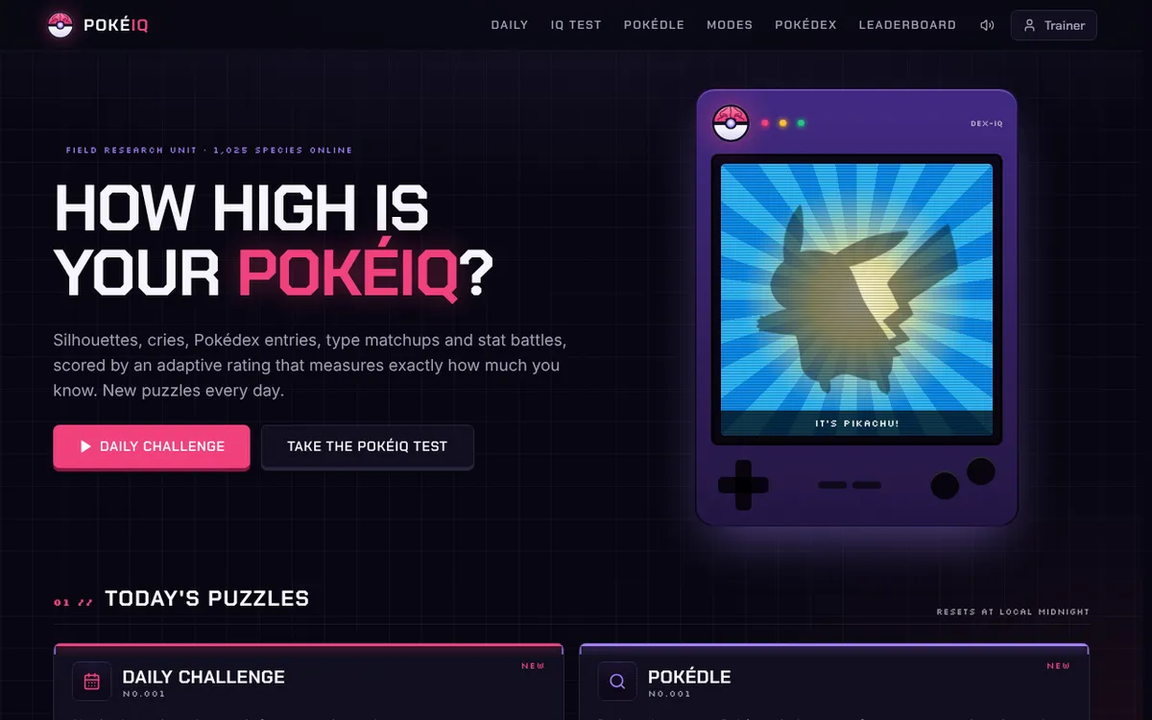
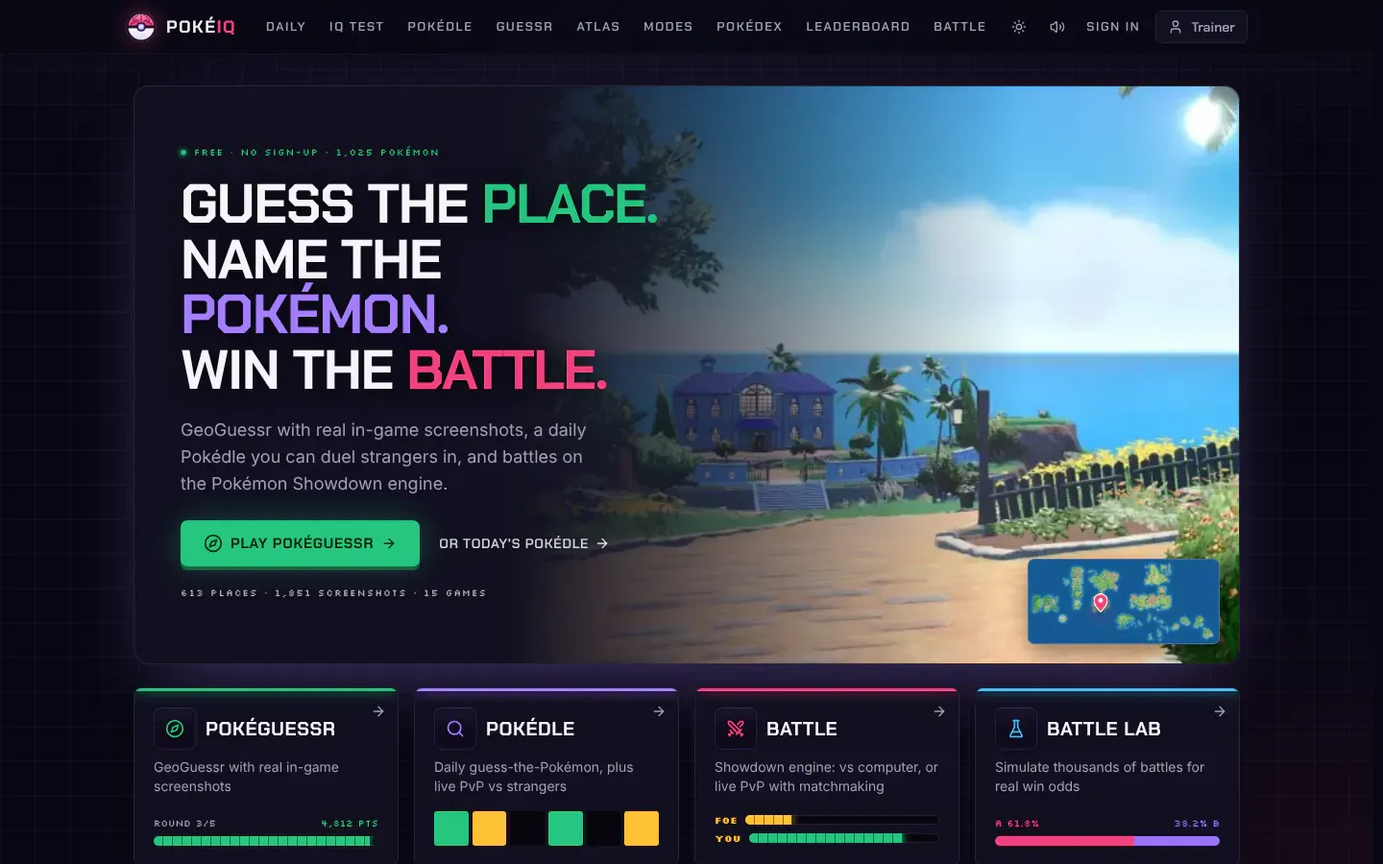
README: rewritten as a project write-up, with fresh screenshots
A pitch and the live link, a tour of the four headline games, the
engineering behind them (duels without a game server, matchmaking from a
single-row queue, sealed round plans, fair sampling, the screenshot
pipeline, Showdown parity, the jsonb key-order bug, the Battle Lab, the
Pokédle scheduler, moderation), an architecture diagram, setup, tests and
credits.

New desktop screenshots of the home page, PokéGuessr, Pokédle, a battle,
the Battle Lab, a quiz and a Pokédex page; the old set is gone.

diff --git a/README.md b/README.md
@@ -1,236 +1,141 @@
 # PokéIQ
 
-**The ultimate Pokémon knowledge test.** Daily challenges, a Pokédle, Who's That Pokémon silhouettes, cry quizzes, Pokédex entries, type matchups and stat battles, all scored with an adaptive rating that turns your answers into a **PokéIQ**.
+**GeoGuessr, Wordle and Pokémon Showdown in one free Pokémon site.** Guess where an in-game screenshot was taken, solve the daily Pokédle or duel a stranger at it, battle on the official Showdown engine, and simulate thousands of battles to see who really wins.
 
-Every question is generated on demand from a snapshot of all 1,025 Pokémon. No question is hand-written, answers are graded on the server, and every result doubles as a challenge link your friends can replay.
-
-<p align="center">
-  <img src="public/logo.svg" alt="PokéIQ logo" width="96">
-</p>
+**Play it: [pokeiq.vercel.app](https://pokeiq.vercel.app)**. No sign-up, works on desktop and mobile.
 
 <p align="center">
   <img src="docs/screenshots/home.webp" alt="PokéIQ home page" width="900">
 </p>
 
-| Who's That Pokémon? | Adaptive PokéIQ Test |
-|---|---|
-| <img src="docs/screenshots/whos-that.webp" alt="Silhouette quiz"> | <img src="docs/screenshots/iq-test.webp" alt="PokéIQ Test results with convergence chart"> |
-| **Pokédex** | **Pokémon entry** |
-| <img src="docs/screenshots/pokedex.webp" alt="Pokédex explorer"> | <img src="docs/screenshots/pokedex-entry.webp" alt="Charizard entry with forms and shiny toggle"> |
-| **Stats & radar** | **Silhouette lookalikes (DINOv2)** |
-| <img src="docs/screenshots/pokedex-stats.webp" alt="Stat bars and radar chart"> | <img src="docs/screenshots/lookalikes.webp" alt="Easily confused silhouettes"> |
-| **Pokédle** | **Mobile** |
-| <img src="docs/screenshots/pokedle.webp" alt="Pokédle daily deduction game"> | <img src="docs/screenshots/mobile.webp" alt="Mobile Pokédex entry" width="260"> |
-
-## Features
+## What you can play
 
 | | |
 |---|---|
-| **PokéIQ Test** | A computerized adaptive test (the technique behind the GRE and GMAT): 20 questions, each picked for maximum Fisher information at your current estimate, scored as a PokéIQ with a 90% confidence range and a convergence chart |
-| **Daily Challenge** | 10 mixed questions, identical for every player that day (date-seeded), with a spoiler-free 🟩🟥 share grid and a daily leaderboard |
-| **Pokédle** | Daily Squirdle-style deduction: 8 guesses, with feedback on generation, types, height, weight, color and evolution stage. Unlocks hints (silhouette, then category). Beside the board, a reference Pokédex of every guessable Pokémon to work it out by elimination: filter by generation, type, colour, stage, height and weight, sort any column, click a row to fill in the guess (the filters are yours to set; it never reads your clues). Unlimited practice mode |
-| **PokéGuessr** | GeoGuessr for Pokémon: dropped somewhere in the Pokémon world, you get an in-game view and drop a pin on the world atlas (the whole world, or one region's part of it), scoring up to 5,000 points a round on GeoGuessr's curve. Every place shows up in every game it's in, from Red / Blue to the latest remakes, picked fairly across the world and steered away from places you've just seen. Daily game, streaks, challenge links and leaderboards per map |
-| **World atlas** | Every mainline region on one zoomable map, laid out like the real places they're based on, with every town, route and landmark labelled from the games' own maps |
-| **PokéGuessr Duels** | Head-to-head PvP, GeoGuessr Duels style: pick a map, send a friend the link, both press Ready and you get the same places. Once one of you guesses, the other has 15 seconds. 6,000 HP each: every round the lower score loses the difference, times a multiplier that climbs from ×1.5 (round 4) to ×3. First to 0 HP loses, more HP wins after 10 rounds, leaving forfeits, and a rematch is one click |
-| **Pokédle Duels** | Head-to-head Pokédle through a share link: three rounds, the same mystery Pokémon for both of you (never the day's solo answer, from all generations or the ones the creator picks). A solve scores 1,000 on the first guess down to 300 on the last, plus up to 150 for speed; hints are opt-in and cost points (category −150, silhouette −300). You see your opponent's colours and hint badges as they play, never their Pokémon. The most points wins, then fewer guesses, then less time |
-| **Matchmaking** | "Find an opponent" on the PokéGuessr and Pokédle duel cards pairs you with anyone searching for the same game and map (Pokédle matches play every generation), no link needed. The duel starts on its own after a short countdown |
-| **Quiz Duels** | Any quiz mode and difficulty, head to head through a share link: the same 10 questions for both of you (built on the server from one seed), 15 seconds each. You see when your opponent locks in, never what they picked; the reveal shows the right answer and both picks. A points race: 100 for a right answer plus up to 50 for speed, the most points after 10 questions wins. Start one from any quiz's setup screen or the game modes page |
-| **Who's That Pokémon?** | Silhouettes rendered on the server, with a "zoomed-in" hard mode that always frames recognisable outline |
-| **Cry Quiz** | Identify Pokémon by their in-game cry |
-| **Dex Detective** | Censored Pokédex entries, categories ("the Seed Pokémon") and abilities |
-| **Type Master** | Typings, damage multipliers, 4× weaknesses and immunities, computed from the 18×18 type matrix |
-| **Higher or Lower** | Two Pokémon, one stat (Speed, BST, weight…) |
-| **Formats** | Classic (10 × 15s), Survival (3 lives, endless) and Blitz (60s), with per-generation filters ("Gen 1 purist") |
-| **Challenge links** | `/c/<token>` replays the exact same questions and shows a head-to-head result; dynamic Open Graph cards for Discord, X and iMessage |
-| **Progression** | XP, levels, daily streaks, 19 badges and a trainer card. Local-first with no signup needed; optional accounts sync it across devices |
-| **Pokédex** | Searchable explorer (type and generation filters, sort by any stat, infinite scroll) and a page for every species: animated / 3D / shiny art with tilt, cries, Mega / regional / Gigantamax forms, stat bars with radar chart, Lv 50/100 ranges and percentiles, full type matchups, branching evolution trees with methods, complete learnsets (level-up / TM / egg / tutor), every Pokédex entry by game, breeding, training, regional dex numbers and names in 7 languages |
-| **Lookalikes** | A DINOv2 vision model embeds every silhouette offline. Its nearest neighbours drive hard-mode Who's That distractors and each Pokédex page's "easily confused with" panel |
-| **Coach** | Per-generation, per-type and per-mode accuracy with empirical-Bayes smoothing. It surfaces your focus areas and strengths and links each one to the right study tool |
-| **Study mode** | Flip-and-swipe flashcards (silhouette, Pokédex entry or typing) with missed cards re-queued and per-generation mastery tracking; quiz answers link straight to the Pokédex |
-| **Team Builder** | Competitive teams for Gen 9 OU, Ubers, UU, Doubles OU, VGC 2025 Reg I, National Dex, Gen 4 OU and Gen 3 OU. Six slots with species search, moves limited to each format's learnsets (type, category, power, accuracy, PP), abilities, items, natures, Tera types, EV sliders, IVs and live stats. Every edit is checked by Pokémon Showdown's own team validator, with problems shown on the slot they belong to. Showdown import / export round-trips exactly; random legal teams; saved on the device |
-| **Damage Calculator** | The Smogon damage calculator for Gens 3–9, both ways: every move's damage range in % and HP, KO chance and the full Showdown description. Boosts, status, Tera, current HP, weather, terrain, screens, hazards, doubles spread, crits, Helping Hand and the rest; load either side from a saved team |
-| **SEO** | 15 quiz landing pages plus 1,025 static Pokémon pages, with a sitemap, JSON-LD and canonical URLs |
-| **Sound** | Synthesized Web Audio effects (no audio files) for answers, streaks and results, with a mute toggle (`M`) |
-| **PWA** | Installable on iOS and Android, with safe-area insets and app shortcuts |
+| **PokéGuessr.** GeoGuessr for the Pokémon world: 1,851 real in-game screenshots of 613 places from 15 games, Kanto to Paldea. Drop a pin on the world map and score up to 5,000 a round. Daily game, streak mode, challenge links and live 1v1 duels with HP, against a friend or a stranger. | <img src="docs/screenshots/guessr.webp" alt="A PokéGuessr round: an in-game view and the world map"> |
+| **Pokédle.** A daily guess-the-Pokémon with clues for generation, types, height, weight, colour and evolution stage, a filterable Pokédex beside the board, community stats once you finish, and three-round live duels against a friend or a stranger. | <img src="docs/screenshots/pokedle.webp" alt="Pokédle board after three guesses"> |
+| **Battles.** Real battles on the official Pokémon Showdown simulator: Random Battle, Random Doubles, OU, Ubers, UU and Doubles OU, against a computer opponent (three levels) or live against another player found by matchmaking or an invite link. Team builder with Showdown's own legality check, and the Smogon damage calculator. | <img src="docs/screenshots/battle.webp" alt="A battle against the computer"> |
+| **Battle Lab.** Set up any two teams, Gen 1 to 9, and run the battle up to 50,000 times in your browser. Win rates with 95% confidence intervals, battle length, who scores the KOs, and replays of sample battles. | <img src="docs/screenshots/battle-lab.webp" alt="Battle Lab results: win rates with confidence intervals"> |
+
+Also: adaptive quizzes on all 1,025 Pokémon (silhouettes, cries, Pokédex entries, type matchups, higher-or-lower) scored by an item-response rating, a daily challenge, a full Pokédex with a page per species, flashcards, a zoomable world atlas, leaderboards and optional trainer accounts.
+
+<p align="center">
+  <img src="docs/screenshots/guessr-reveal.webp" alt="A PokéGuessr reveal: the guess, the answer and the score" width="290">
+  <img src="docs/screenshots/whos-that.webp" alt="Who's That Pokémon? silhouette quiz" width="290">
+  <img src="docs/screenshots/pokedex-entry.webp" alt="Garchomp's Pokédex page" width="290">
+</p>
+
+## Engineering highlights
+
+**Server-authoritative live duels without a game server.** PokéGuessr, Pokédle and quiz duels and live battles all run on Vercel functions and one Postgres row per game. Nothing runs on a timer: every poll or action catches the duel up on the steps that are due (a round closing, the next one starting, a silent player forfeiting), each dated by the rules rather than by when the request arrived, so both players always see the same game. Every write is a compare-and-swap on the row's version, so two players acting in the same millisecond can't overwrite each other, and each player holds an HMAC-signed seat token, so nobody can act for anyone else. Views are cut per player: an answer and the opponent's pin leave the server only in the reveal. (`src/lib/server/duel-core.ts`, `duel-store.ts`)
+
+**Matchmaking with strangers from a single-row queue.** Each queue (`geo:world`, `pokedle:all`, `battle:gen9ou` …) is one row holding at most one waiting player. A search either pairs with a waiting player who is still polling, opening the game with both seated, or becomes the one waiting. Every change to the row is a compare-and-swap, so two searches can never wait on each other and a waiting player is never paired twice; a search not heard from in 8 seconds is passed over. Battle formats that need your own team check it against the format's rules before you join the queue. (`src/lib/server/match-queue.ts`)
+
+**Stateless games with sealed round plans.** A PokéGuessr game is a token, not a database row: its five rounds are planned up front, then encrypted (AES-256-GCM) into the signed token, so the server can grade any guess without storing anything and the player can't read the places out of it. Screenshot URLs carry random ids, and the id-to-place mapping never leaves the server. Quiz questions are a pure function of an HMAC'd seed, and silhouettes and cries are served behind encrypted media tokens, so the open-source code can't be used to precompute answers. (`src/lib/server/geo.ts`, `crypto.ts`, `session.ts`)
+
+**Fair sampling with recency steering.** Rounds are drawn by area, not by screenshot: a town and every building in it count as one draw, so a place with 20 screenshots isn't 20 times as likely as a route with one, and a world game takes each round from a different region. For free play the server tries 64 seeds and keeps the one whose rounds overlap least with the player's recent places, weighted toward the latest. (`planRounds`, `staleness` in `src/lib/server/geo.ts`)
+
+**A screenshot pipeline that keeps pixel art crisp.** `scripts/ingest-world.ts` collects views from Bulbapedia, the Bulbagarden Archives and three other Pokémon wikis, keeps only screen-shaped captures, drops near-copies by image hash, and denylists shots that name the place or show the wrong one after a review of every contact sheet. Sprite-game shots are detected at their true pixel scale, reduced to native resolution with nearest-neighbour, then scaled back up by a whole number and saved as lossless WebP, so they stay sharp at any size; 3D captures are capped at 1,600 px. (`scripts/geo/bulbapedia.ts`)
+
+**Battles on the official Showdown engine, with a parity harness.** Live and computer battles run the `pokemon-showdown` package on the server; the Battle Lab runs `@pkmn/sim`, Showdown's simulator packaged for the browser. `npm run verify:showdown` (`scripts/showdown-parity.ts`) plays 2,000 battles across 12 scenarios (random battles for every generation, Random Doubles, a fixed Gen 4 matchup and Gen 9 OU) on both engines with the same seeds, teams and choices, and compares every request and the full omniscient log line by line, plus both team validators on edge-of-legality sets. Every difference is classified rather than just counted: on the latest run (1.29 million log lines in about three minutes), the fixed-team scenarios matched line for line in all 332 battles, and every divergence in the random formats traced to a known cause, either newer random-battle set lists and format text in the official package or one of a short, named list of mechanics fixes (Gen 3-4 Encore timing, Gen 4 Truant, Pursuit on a switch, recoil message details). That tells you exactly where the Lab can differ from the live game, and why.
+
+**The jsonb key-order bug.** In live battles, one player's move kept voiding the other's: their choice came back "out of date" and their turn clock restarted. Postgres `jsonb` hands objects back with their keys reordered, so the stored copy of a player's pending request never string-matched the simulator's fresh one, and every write looked like a new request. The fix compares by content through a canonical (key-sorted) JSON, and the in-memory test store now reorders keys the way `jsonb` does, so the tests see what production sees. As a bonus, duels stopped writing to the database on polls where nothing changed. (`src/lib/server/canonical-json.ts`)
+
+**Battle Lab: Monte Carlo in Web Workers.** Battles are split across a pool of Web Workers sized to the device's cores, each playing seeded battles with scripted decision policies. Every battle's randomness comes from the run's seed, so a result link replays exactly. Win rates are reported with Wilson score intervals, which stay honest near 0% and 100% where the normal approximation breaks down. (`src/lib/battle/lab/`)
+
+**Pokédle's daily scheduler.** The answer for each date is dealt from a curated pool like a deck: a keyed shuffle (HMAC with the server secret, so the public code can't predict it) where no Pokémon repeats until the whole pool has been used, about 800 days. Within a cycle, the weekday sets the difficulty tier, generations are spread evenly, consecutive days avoid the same generation and primary type, and an evolution family sits out for several days after one of it was the answer. Past days keep their answers for good, so the archive replays them. Community stats (solve rate, guess distribution, most popular openers) are served from a 30-second CDN cache and shown only after you finish. (`src/lib/server/pokedle-schedule.ts`, `src/app/api/pokedle/stats`)
+
+**Moderation and abuse limits.** A name filter folds accents, look-alike letters from other scripts, leetspeak and repeated letters before matching, while letting every Pokémon name and words like "Scunthorpe" through; it runs in forms and again on the server for every name another player can see. Grading, duel, matchmaking, leaderboard and auth endpoints are behind token-bucket rate limits, leaderboards accept only server-signed result tokens, and a "report a problem" form and the browser error reporter write to a `reports` table. (`src/lib/name-filter.ts`, `src/lib/server/rate-limit.ts`)
+
+**Tested end to end.** 344 Vitest tests across 33 files cover the RNG, every quiz engine at every difficulty, tokens and grading, duels and matchmaking under concurrent writes, the battle service and the Pokédle schedule. A Playwright smoke test (`scripts/e2e-smoke.mjs`) plays every mode in a real browser, including two-browser PokéGuessr, Pokédle and quiz duels and a live battle, checks that no hidden battle data reaches the other player, and fails on any console error. CI runs lint, type check, tests, build and the smoke test on every push.
 
 ## Architecture
 
 ```mermaid
 flowchart LR
-  subgraph Build time
-    PA[(PokéAPI GraphQL)] -->|npm run ingest| DEX[src/data/pokedex.json\n1,025 species]
-    PA -->|npm run ingest| DET[pokedex-details.json + moves.json\nforms · evolutions · learnsets]
-    DET --> PAGES[1,025 static Pokédex pages]
+  subgraph Build["Build time (scripts/)"]
+    POKEAPI[("PokéAPI")] -->|npm run ingest| DEX["pokedex.json: 1,025 species"]
+    WIKIS[("Bulbapedia and other wikis")] -->|npm run ingest:world| GEO["geo.json: places and areas"]
+    WIKIS -->|re-encoded under random ids| STORAGE[("Supabase Storage: screenshots")]
   end
-  subgraph Server
-    DEX --> ENG[Question engines\npure fn of seeded RNG]
-    ENG --> GATE[Zod validation gate]
-    GATE --> SES[Session layer\nHMAC-signed state tokens]
-    SES --> API1[/api/session\n/api/session/answer/]
-    DEX --> MEDIA[/api/media/:token\nsharp silhouettes · AES-GCM tokens/]
-    DEX --> DLE[/api/pokedle/]
-    SES -->|signed result| LB[/api/leaderboard/]
+
+  subgraph Browser
+    UI["Next.js pages (React 19)"]
+    LAB["Battle Lab: @pkmn/sim in Web Workers"]
   end
-  subgraph Optional: Supabase
-    LB --> RUNS[(runs)]
-    API1 --> CLAIMS[(token_claims\nreplay guard)]
-    API1 --> ATT[(question_attempts)] --> CAL[[item_calibration view]]
-    CAL --> ENG
+
+  subgraph Vercel["Vercel functions"]
+    API["API routes: sessions, grading, duels, matchmaking"]
+    SIM["Battle service: official pokemon-showdown"]
+    OG["Link-preview cards (next/og)"]
   end
-  Browser <--> API1 & MEDIA & DLE & LB
+
+  subgraph Supabase["Supabase Postgres"]
+    DUELS[("duels, geo_duels, battles: one row per game, version CAS")]
+    QUEUE[("duel_queue: one row per queue")]
+    DATA[("runs, accounts, dle_results, reports")]
+  end
+
+  DEX --> API
+  GEO --> API
+  UI <-->|polling, signed seat tokens| API
+  UI --> LAB
+  API --> SIM
+  API <--> DUELS
+  API <--> QUEUE
+  API <--> DATA
+  UI -->|screenshot ids only| STORAGE
 ```
 
-### Key design decisions
+## Tech stack
 
-- **Own the data.** GraphQL requests at build time produce committed snapshots: a lean 1 MB quiz dataset, and a separate 3 MB study dataset (learnsets, forms, evolution methods) that only the statically generated Pokédex pages read, so the quiz runtime never loads it. Client components import only `lib/pokemon/constants.ts`, which keeps both datasets out of browser bundles. At runtime, generating a question is an in-memory function that takes microseconds, makes no third-party calls, and can't be rate-limited or taken down by PokéAPI.
-- **Questions are a pure function of `(seed, options)`.** The server never stores a question. It re-derives question *N* of a session whenever it grades one, which makes Daily Challenges and challenge links free: same seed, same quiz.
-- **Seeds are HMAC'd.** The generator is open source and the public seed is visible in tokens, but the RNG is seeded with `HMAC(secret, seed)`. Without the server secret, nobody can precompute a quiz's answers from this repo.
-- **Server-authoritative scoring.**
-  - The browser never receives an answer before committing to a choice.
-  - Session state lives in HMAC-signed tokens, and timing comes from server clocks.
-  - Each `(session, question)` can be graded only once. A replay guard backed by a Postgres unique key stops replaying an old token after seeing the solution.
-  - The leaderboard accepts only a server-signed result token. There's no score field to forge, and the anon key is read-only under RLS.
-- **No answer leaks through media.** Silhouette and cry URLs are AES-GCM encrypted tokens, so there's no Pokédex number in the URL. Silhouettes are rendered with `sharp` on the server, so the full-colour art reaches the browser only after grading.
-- **Self-verifying output.** Every generated question passes a Zod gate (answer in the options, no duplicates). Builders refuse ambiguous questions such as stat ties or shared categories instead of shipping them.
+- **App:** Next.js 15 (App Router, React Server Components), React 19, TypeScript (strict), Tailwind CSS
+- **Data:** Supabase (Postgres with row-level security, Storage), with an in-memory fallback so the game runs with no configuration
+- **Battles:** `pokemon-showdown` (server), `@pkmn/sim`, `@pkmn/client` and `@pkmn/view` (browser), `@smogon/calc`
+- **Images:** `sharp` for silhouettes and screenshot encoding, `next/og` for share cards
+- **Validation and testing:** Zod on API inputs, Vitest, Playwright, GitHub Actions
+- **Hosting:** Vercel, with Vercel Analytics
 
-### The PokéIQ rating
-
-Players and questions share one Elo-style scale. The probability of a correct answer follows an item-response-theory curve with a guessing floor (3PL with `c = 1/options`):
-
-```
-P(correct) = g + (1 − g) / (1 + 10^((item − player) / 400))
-```
-
-A run's PokéIQ is the MAP estimate of the player's rating given the items answered: bisection on the likelihood gradient with a Gaussian prior. It's then mapped to an IQ-style scale (mean 100, SD 15). Ten easy questions right is worth less than ten hard ones.
-
-Items start with heuristic priors (generation, zoom, distractor similarity, stat gap). Once Supabase is connected, every graded answer is logged and the `item_calibration` view inverts the same curve to compute an empirical difficulty per item. The server swaps it in after 30 attempts, so difficulty sharpens as the player base grows.
-
-### Machine learning and psychometrics
-
-| Component | Technique | Where |
-|---|---|---|
-| Ability estimation | 3PL item response model, Bayesian MAP estimate with Gaussian prior, standard error from Fisher information | `src/lib/rating.ts` |
-| Adaptive testing | Max-information item selection with top-3 randomisation, deterministic replay from the signed answer log, memoised per answer prefix | `src/lib/server/session.ts` |
-| Item calibration | Logged attempts feed a Postgres view that inverts the response curve for an empirical difficulty per item | `supabase/migrations`, `src/lib/server/calibration.ts` |
-| Silhouette similarity | DINOv2-small embeddings (Transformers.js / ONNX, offline) of each silhouette plus its mirror, then exact cosine kNN | `scripts/silhouette-lookalikes.ts` |
-| Weak-spot coach | Beta-prior (empirical-Bayes) smoothing of per-skill accuracy | `src/lib/coach.ts` |
-
-**Simulation results.** 175 simulated players span true ratings 700–1900, and their answers are drawn from the same response model. After 20 questions the adaptive test's estimate is off by **88 rating points on average (≈ 6.6 IQ points)**. A fixed 20-question quiz is off by **123 points (≈ 9.2 IQ points)**, so adaptive selection cuts the error by about 28%, with the biggest gains for very strong and very weak players. These numbers assume the item difficulties are correct; real-world accuracy depends on calibration data. Tests in `tests/adaptive.test.ts` check that the adaptive test serves harder questions to stronger players and ranks them above weaker ones.
-
-### Battle
-
-The Battle section runs on Pokémon Showdown's own code: `@pkmn/sim` (MIT) for the rules, `@pkmn/dex` and `@pkmn/data` for the data, `@pkmn/sets` for Showdown's text and packed team formats, `@pkmn/randoms` for random sets and `@smogon/calc` for damage. Their data runs to megabytes, so the browser only fetches it on the team builder and calc pages, through dynamic imports (about 350 KB gzipped, plus 400 KB of learnsets on the first move list); every other page's bundle is unchanged. Legality is decided on the server: `/api/battle/validate` runs the simulator's `TeamValidator` for the team's format and returns problems per set, and `/api/battle/random` deals random-battle sets that pass it. The simulator stays an external Node package (`serverExternalPackages`), since minifying it breaks its state serializer. Saved teams live in `src/lib/battle/teams.ts` (localStorage, like progress); a team's sets are Showdown sets, and `listTeams(format)` and `teamShowdownText(id)` are what battles read. Sprites come from PokéAPI's repo: `scripts/battle-sprites.ts` maps Showdown's form ids to PokéAPI's and records which animated sprites exist.
-
-### PokéGuessr data pipeline
-
-Every PokéGuessr map is the world atlas: the whole world, or one region's part of it. `scripts/geo/world-places.json` holds every place on the atlas (its name, region and area in world-map pixels, traced from each game's own town map) and each region's box. `scripts/ingest-world.ts` finds each place's Bulbapedia page and collects in-game screenshots from its infobox, its gallery and the Bulbagarden Archives (including X/Y's Photo Spots and Ultra Sun / Ultra Moon's Photo Club backdrops), then tops up the 3D games from the place's pages on the Pokémon Wiki (Fandom), Poképédia and PokéWiki (found through PokéAPI's names and Bulbapedia's language links), since Bulbapedia has only guidebook maps for most X/Y, Sun/Moon and Sword/Shield routes. It keeps only real views: a 3D game's file has to be screen-shaped (5:3 on the 3DS, 16:9 or 2:1 on the Switch), which drops guidebook maps, scans and renders; Town Map previews, item-pickup shots (their text boxes) and files naming another place are dropped, near-copies (a route's four seasons, the same view on two wikis) are found by image hash and kept once, and shots that name the place or show the wrong one are denylisted after reviewing contact sheets of every screenshot. Screenshots are re-encoded under random ids and uploaded to Supabase Storage, so image URLs reveal nothing. Buildings and landmarks get their own rounds and share their town's area, stored as a point every 8 px so a guess anywhere in it scores full marks. The id-to-location mapping is server-only, rounds are seeded from the server secret, and every guess is graded on the server: 5,000 · e^(−10 · d / D), with D the map's diagonal.
-
-### PokéGuessr duels
-
-A duel is one row on the server (`geo_duels`, RLS-locked to the service role), and `src/lib/server/duel.ts` applies every rule as a pure function of the duel and the time. Nothing runs on a timer: each poll or action catches the duel up on whatever is due (a round closing 15 s after the first guess or 90 s after it started, the next round starting, a trainer who hasn't been heard from in 30 s forfeiting), dated by the rules rather than by when the request arrived, so both players see the same duel. Writes are a compare-and-swap on the row's version, so two players acting at once never overwrite each other. Each player holds a signed token for their seat, and views are cut per player: a round's answer and the opponent's pin only leave the server in the reveal. Clients poll every second in play. Without Supabase (or with `POKEIQ_LOCAL_ACCOUNTS=1`) duels live in memory, which is right for one server process; production needs Supabase for them.
-
-Pokédle and quiz duels share one table, `duels`, with a `kind` column, and one API (`/api/duel`, `/api/duel/<code>`). `src/lib/server/duel-core.ts` holds what every duel shares (signed seats, the lobby, presence, forfeits, rematches) and each game plugs in its own rules. `src/lib/server/pokedle-duel.ts` keeps the round's secret and both trainers' guesses on the server and sends each trainer their own clues in full, but the opponent's only as colours and hint badges until the round is over. `src/lib/server/quiz-duel.ts` builds each question with the solo quiz's engines from the duel's seed and sends it only once it starts (with media behind the usual encrypted tokens); the answer and both picks go out in the reveal. On the client, `src/components/duel/` has the polling hook and the lobby every duel uses, PokéGuessr's included.
-
-Matchmaking (`src/lib/server/matchmaking.ts`, `POST /api/duel/match`) keeps one row per queue in `duel_queue` (a game and its settings, like `geo:world` or `pokedle:all`) holding at most one waiting trainer. A search either pairs with a waiting trainer who is still polling (it opens the duel with both seated and ready, then takes them out of the queue) or becomes the one waiting; every change is a compare-and-swap, so nobody is paired twice and two searches never wait on each other. Searches poll once a second, and a search not heard from in 8 seconds is passed over.
-
-## Getting started
+## Running it locally
 
 ```bash
 npm install
 npm run dev            # http://localhost:3000
 ```
 
-It works with zero configuration. For production:
+It works with no configuration: duels fall back to memory and accounts to a local file, and leaderboards switch off. For production, set:
 
-| Variable | Required | Purpose |
-|---|---|---|
-| `POKEIQ_SECRET` | **yes** | Signs tokens and derives seeds. Use any long random string (`openssl rand -base64 32`) |
-| `SUPABASE_URL` | no | Enables trainer accounts, leaderboards, cross-instance replay protection and difficulty calibration |
-| `SUPABASE_SERVICE_ROLE_KEY` | no | Server-only. Never prefix it with `NEXT_PUBLIC_` |
-| `NEXT_PUBLIC_SITE_URL` | no | Canonical URL for the sitemap and OG tags (defaults to the Vercel production URL) |
+| Variable | Purpose |
+|---|---|
+| `POKEIQ_SECRET` | Required in production. Signs tokens and seeds the RNG |
+| `SUPABASE_URL` | Enables accounts, leaderboards, duels across instances and calibration |
+| `NEXT_PUBLIC_SUPABASE_URL` | Fallback for `SUPABASE_URL` when locating the screenshot store |
+| `SUPABASE_SERVICE_ROLE_KEY` | Server-only Supabase key |
+| `NEXT_PUBLIC_SITE_URL` | Canonical URL for link previews and the sitemap (defaults to `https://pokeiq.vercel.app`) |
+| `POKEIQ_LOCAL_ACCOUNTS` | `1` to use the local account file and in-memory duels with `npm start` |
 
-To set up Supabase, create a free project and run `supabase/setup.sql` (all migrations in one file) in its SQL editor.
+To set up Supabase, run `supabase/setup.sql` in a new project's SQL editor.
 
-### Trainer accounts
-
-Progress is local-first, so anyone can play without signing up. Creating an account (trainer name + password, no email) syncs XP, badges, streaks and PokéIQ across devices:
-
-- Passwords are hashed with scrypt and a per-user salt and compared in constant time; unknown names take the same time to reject.
-- Sessions are 256-bit random tokens in an HTTP-only, SameSite cookie, and only their SHA-256 is stored.
-- A one-time recovery code replaces email resets; using it rotates the code and signs out every other device.
-- Auth routes are rate-limited and reject cross-site requests. Account tables are RLS-locked to the service role.
-
-Accounts need Supabase in production. Locally they use a JSON file in `.data/` (set `POKEIQ_LOCAL_ACCOUNTS=1` to use it with `npm start`).
-
-**To deploy:** import the repo into Vercel, set the variables above, and deploy. Vercel Analytics is already wired in, with custom events for quiz start and complete, shares, challenges and Pokédle.
-
-## Testing
+## Tests
 
 ```bash
-npm run lint           # ESLint (next/core-web-vitals + TypeScript rules)
-npm run typecheck      # strict TypeScript
-npm test               # Vitest: RNG, type matrix, all engines × difficulties × 60 seeds,
-                       # signed/encrypted tokens, session grading, Survival, Pokédle, rating
-npm run build
-npm start & npm run verify:e2e   # Playwright: full run → challenge link → OG image,
-                                 # every mode, Blitz, Pokédle, two-browser duels,
-                                 # accounts, mobile viewport
+npm run lint                     # ESLint
+npm run typecheck                # tsc --noEmit
+npm test                         # Vitest: 344 tests
+npm run build && npm start &
+npm run verify:e2e               # Playwright smoke test of every mode
+npm run verify:showdown          # 2,000-battle parity check against official Showdown
 ```
 
-CI (`.github/workflows/ci.yml`) runs all of these on every push and PR, and uploads E2E screenshots as artifacts.
+## Credits and licences
 
-Refresh the data when a new generation ships:
+- In-game screenshots and place data: [Bulbapedia](https://bulbapedia.bulbagarden.net) and the Bulbagarden Archives, the Pokémon Wiki (Fandom), Poképédia and PokéWiki. Screenshots are the property of their copyright holders.
+- Pokémon data, artwork and sprites: [PokéAPI](https://pokeapi.co).
+- Battle simulation: [Pokémon Showdown](https://github.com/smogon/pokemon-showdown) (MIT) and the [@pkmn](https://github.com/pkmn) packages (MIT).
+- Damage calculator: [@smogon/calc](https://github.com/smogon/damage-calc) (MIT).
 
-```bash
-npm run ingest         # Pokédex + study data (~10 s)
-npm run lookalikes     # DINOv2 silhouette index (~3 min on CPU; dev-only dependency)
-npm run icons          # regenerate favicon / PWA icons from src/lib/brand/logo-svg.ts
-npm run ingest:world   # PokéGuessr places and screenshots (needs Supabase env vars)
-npm run battle:sprites # Showdown form ids → PokéAPI sprite ids, checked against the sprite repo
-```
-
-## Project layout
-
-```
-src/
-├── data/                         # committed snapshots (npm run ingest)
-│   ├── pokedex.json              #   quiz data
-│   └── pokedex-details.json, moves.json  # study Pokédex data
-├── engines/                      # question builders (pure, seeded) + Zod gate
-│   └── modules/                  # whos-that · cry · dex · types · higher-lower
-├── lib/
-│   ├── server/                   # session, crypto, replay guard, rate limit,
-│   │                             # calibration, pokedle, leaderboard, auth + accounts
-│   ├── rating.ts                 # IRT/Elo PokéIQ model
-│   ├── progress.ts               # local XP / streaks / badges store
-│   ├── battle/                   # formats, Showdown sets, saved teams, calc glue, lazy data loaders
-│   └── pokemon/                  # Pokédex access + 18×18 type matrix
-├── app/
-│   ├── api/                      # session · answer · media · pokedle · leaderboard · auth · progress
-│   ├── daily · pokedle · play · trainer · leaderboard
-│   ├── quiz/[slug]               # 15 SEO landing pages, one route
-│   ├── pokedex · pokedex/study   # explorer + flashcards
-│   ├── pokemon/[slug]            # 1,025 static Pokédex pages
-│   ├── api/art/[id]              # CDN-cached WebP artwork thumbnails
-│   └── c/[token]                 # challenge links + dynamic OG image
-└── components/                   # QuizController (one runtime for every mode)
-scripts/ingest-pokedex.ts · ingest-details.ts · silhouette-lookalikes.ts · e2e-smoke.mjs
-supabase/migrations/          # 0001 schema · 0002 adaptive test · 0003 hardening · 0004 accounts · 0005 PokéGuessr · 0006 PokéGuessr maps · 0007 PokéGuessr duels · 0008 duels (Pokédle, quizzes) · 0009 matchmaking queue
-tests/
-```
-
-## Roadmap
-
-- Optional Discord or Google sign-in alongside trainer-name accounts
-- Localized Pokémon names (already in the snapshot: es, fr, de, it, ja, ko)
-- Name-All Blitz (typed recall) and a PokéGrid daily puzzle
-- Discord bot with `/daily`
-- Sentry error monitoring
-
-## License
-
-Source code is released under the [MIT License](LICENSE). Pokémon assets and names belong to their respective owners.
+PokéIQ's own source code is released under the [MIT License](LICENSE).
 
 ---
 
-PokéIQ is a free, non-commercial fan project. It is not affiliated with, endorsed or sponsored by Nintendo, Game Freak, Creatures or The Pokémon Company. Pokémon data comes from [PokéAPI](https://pokeapi.co).
+PokéIQ is a free, non-commercial fan project and is not affiliated with, endorsed or sponsored by Nintendo, Game Freak, Creatures or The Pokémon Company. Pokémon and all related names are trademarks of their respective owners. Data from PokéAPI.
